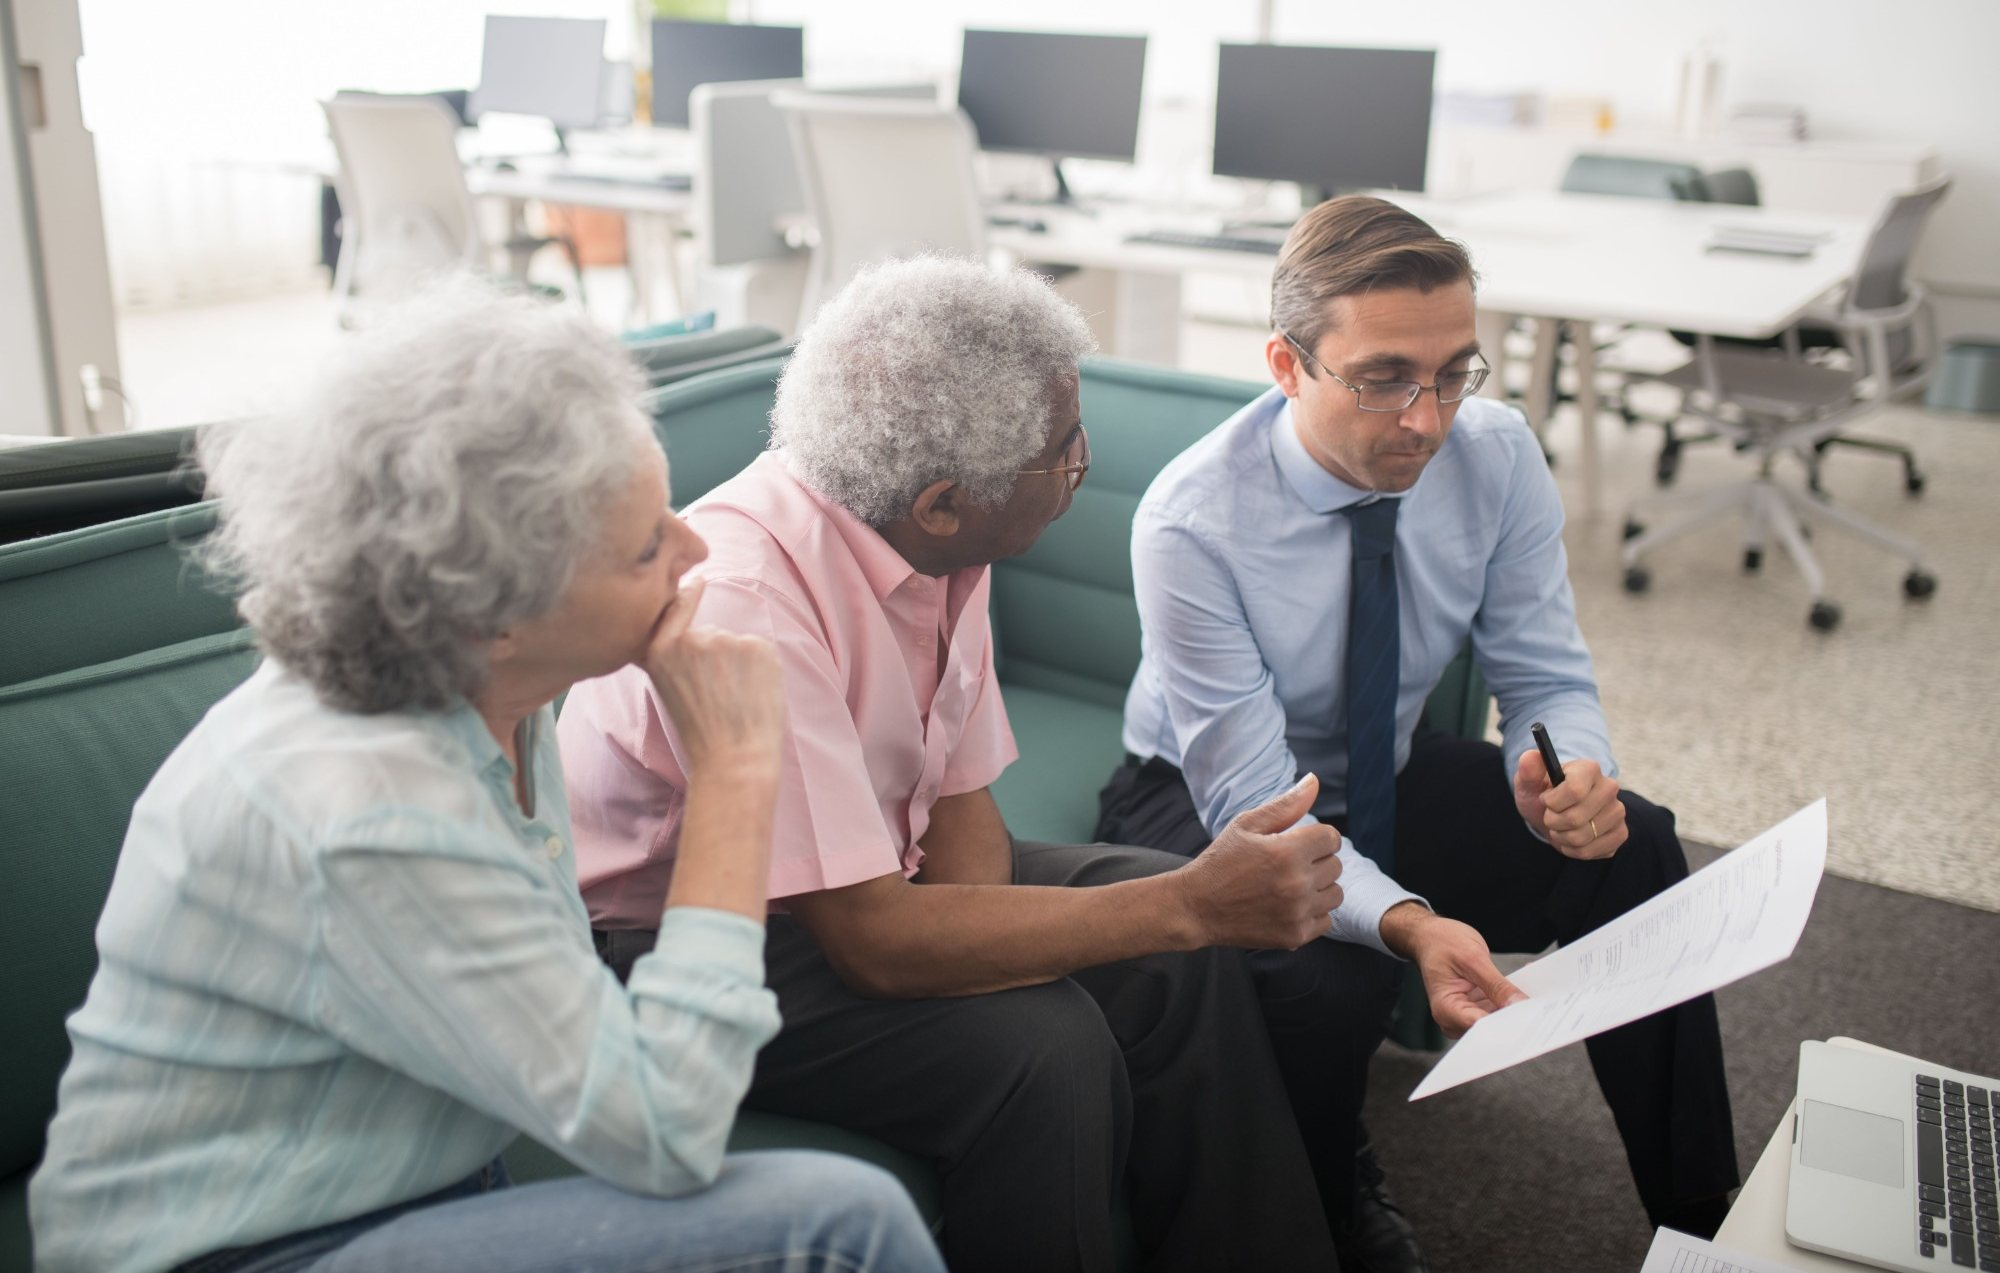
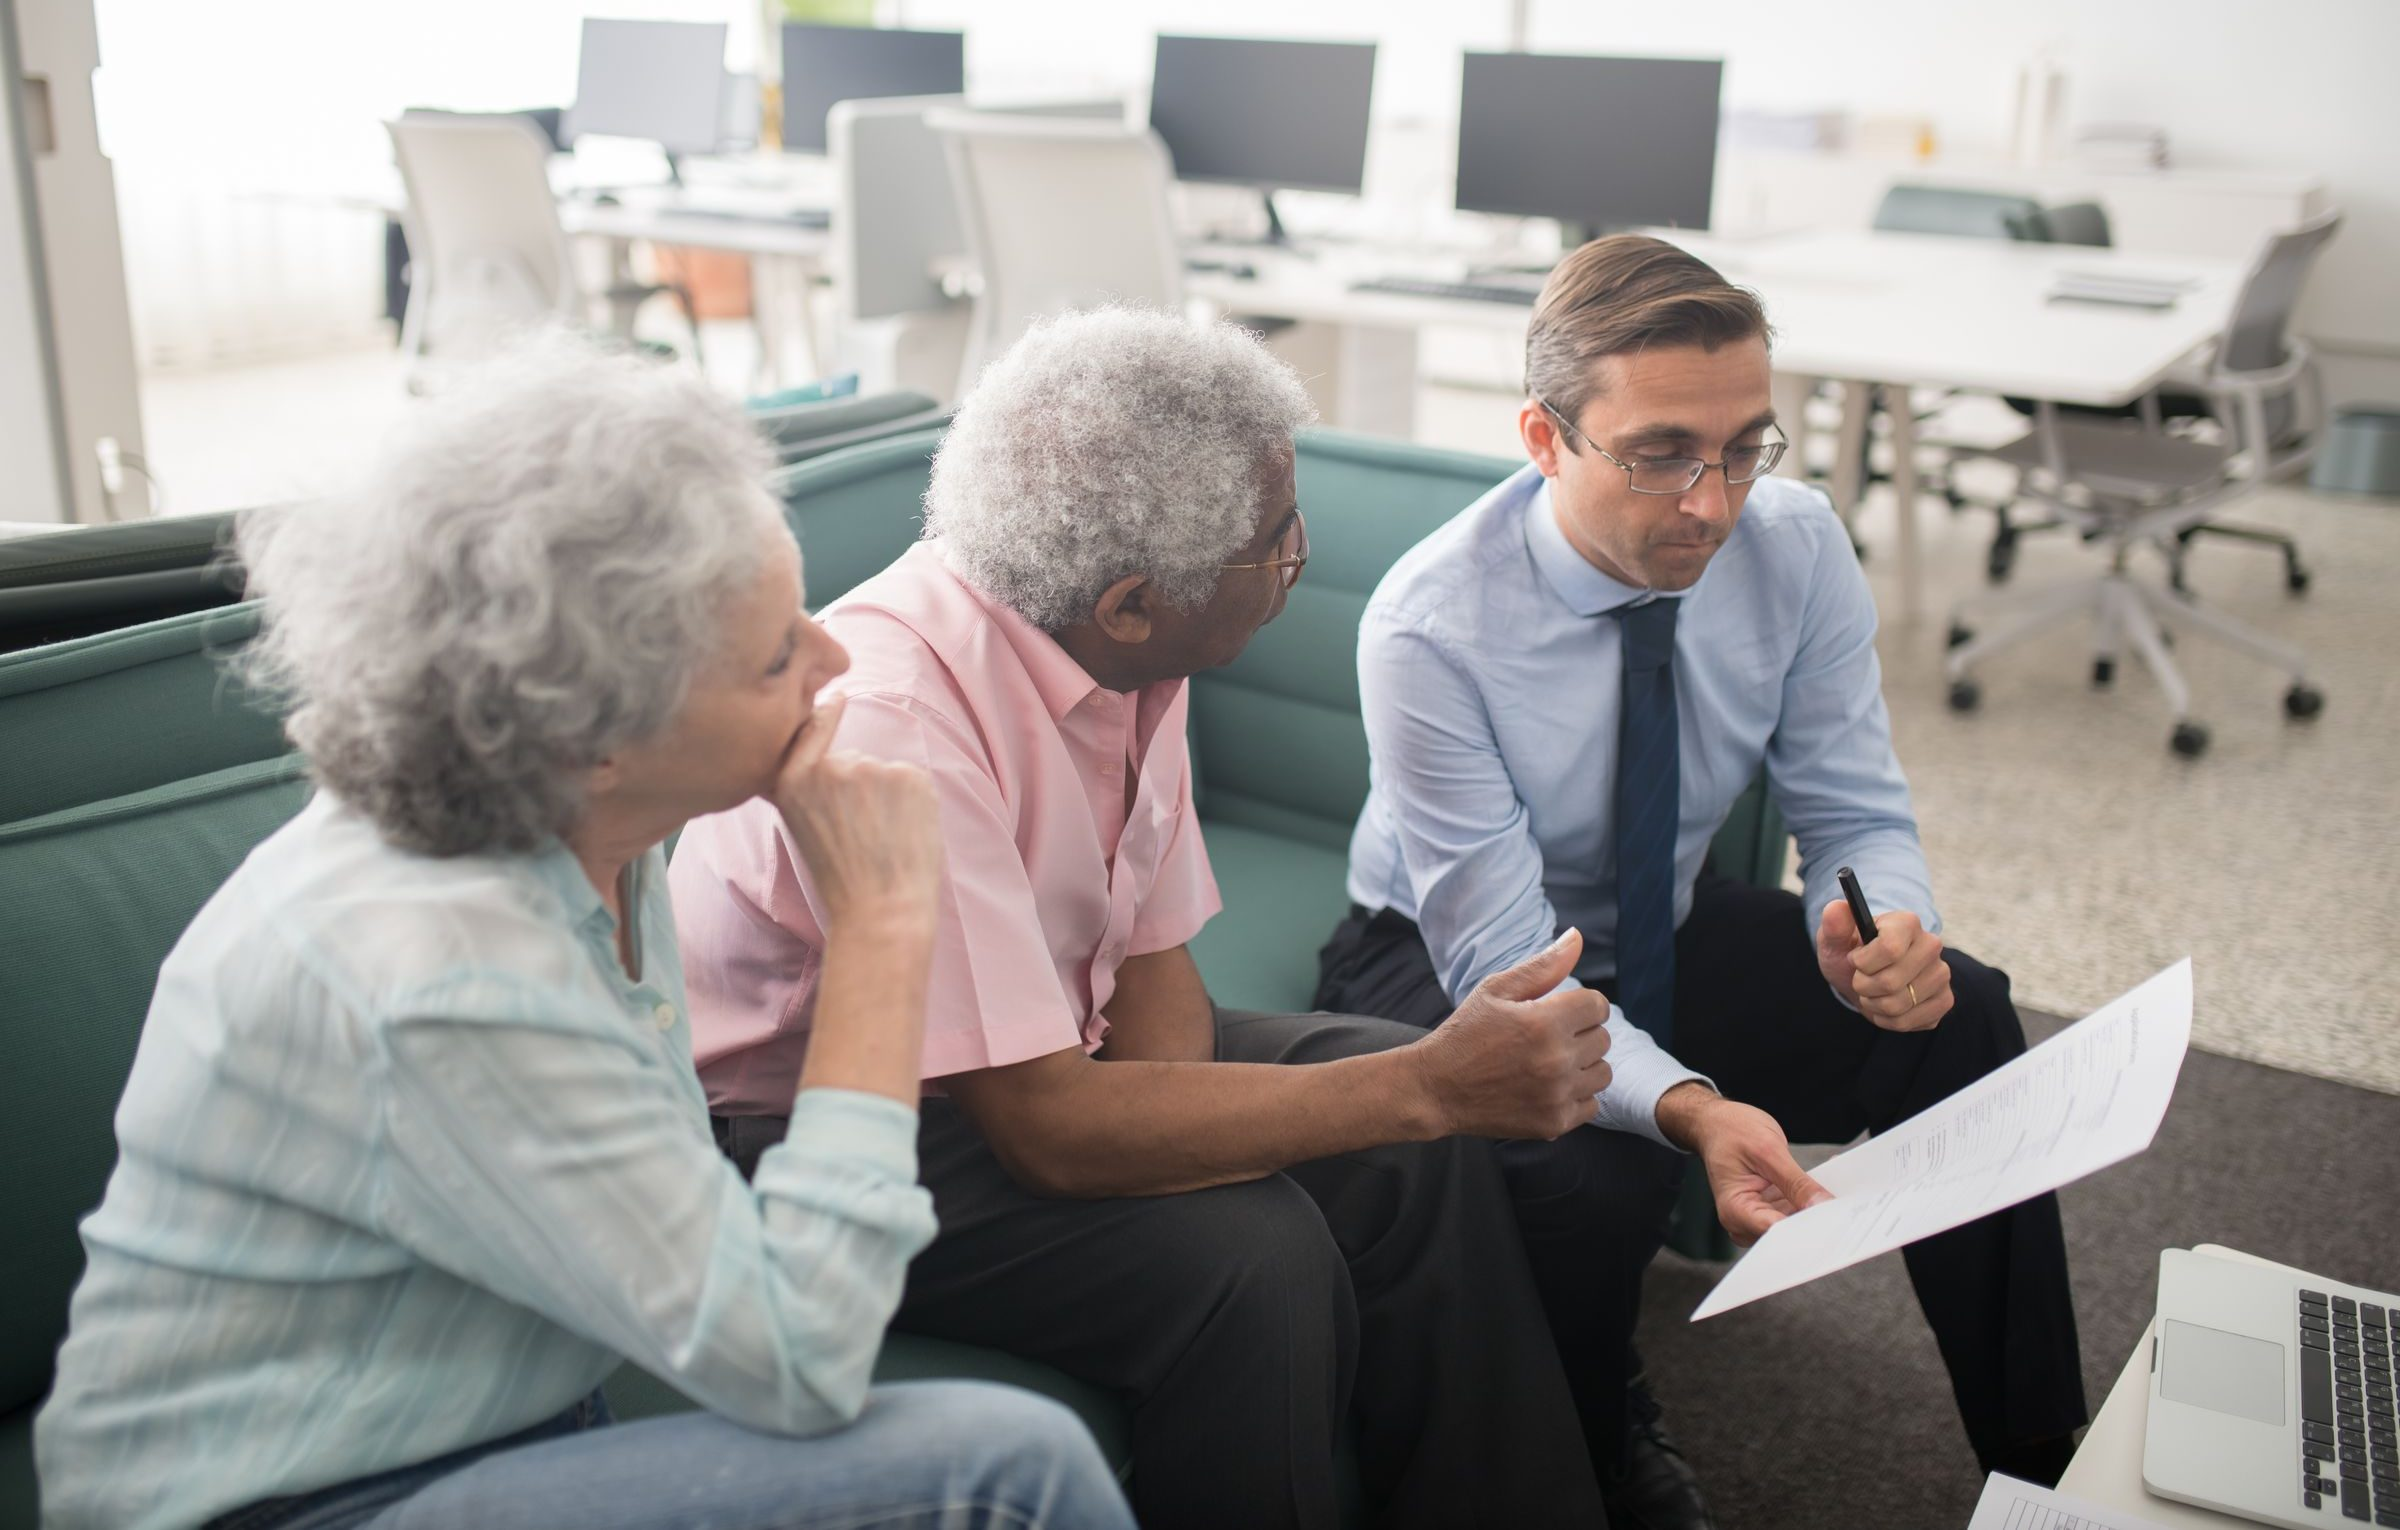
Add kitchen-review photo to the contact section; sharper couple photo
Both from Pexels (photos 8068654 and 8441812), downloaded at full size.

Claude-Session: https://claude.ai/code/session_01UCzVh8H1UzkPYnuEDfDLRv

diff --git a/src/components/Contact.tsx b/src/components/Contact.tsx
@@ -1,7 +1,9 @@
 "use client";
 
 import { AnimatePresence, motion } from "framer-motion";
+import Image from "next/image";
 import { useState, type FormEvent } from "react";
+import kitchenPhoto from "@/assets/photos/kitchen-review.jpg";
 import { AUM, ROLES, submitContact, validateContact, type ContactRequest } from "@/lib/contact";
 
 const EMPTY: ContactRequest = { name: "", email: "", firm: "", role: "", aum: "", message: "", website: "" };
@@ -67,6 +69,29 @@ export default function Contact() {
               <Tick /> Your questions about data, security and pricing
             </li>
           </ul>
+
+          <motion.figure
+            className="relative mt-10 max-w-[30rem]"
+            initial={{ opacity: 0, y: 24 }}
+            whileInView={{ opacity: 1, y: 0 }}
+            viewport={{ once: true, amount: 0.4 }}
+            transition={{ duration: 0.9, ease: [0.22, 1, 0.36, 1] }}
+          >
+            <div className="relative aspect-[3/2] overflow-hidden rounded-2xl ring-1 ring-white/10">
+              <Image
+                src={kitchenPhoto}
+                alt="An advisor and a client review printed charts together at a kitchen island."
+                fill
+                placeholder="blur"
+                sizes="(min-width: 1024px) 480px, 100vw"
+                className="object-cover object-[60%_35%]"
+              />
+              <div aria-hidden="true" className="absolute inset-0 bg-gradient-to-t from-navy/50 via-transparent" />
+            </div>
+            <figcaption className="absolute -bottom-4 left-4 rounded-full border border-white/12 bg-navy/80 px-4 py-2 text-sm text-on-navy backdrop-blur">
+              30 minutes, on a portfolio you choose
+            </figcaption>
+          </motion.figure>
         </div>
 
         <div className="on-paper rounded-2xl bg-card p-6 text-ink shadow-[0_30px_80px_-30px_rgba(0,0,0,0.6)] sm:p-8">
